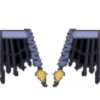
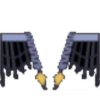
Boss doors added

diff --git a/ui/game_view.py b/ui/game_view.py
@@ -24,6 +24,10 @@ class GameView(QWidget):
         self.doors_down = QPixmap("resources/images/backgrounds/doors_down.png")
         self.doors_right = QPixmap("resources/images/backgrounds/doors_right.png")
         self.doors_left = QPixmap("resources/images/backgrounds/doors_left.png")
+        self.doors_up_boss = QPixmap("resources/images/backgrounds/doors_up_boss.png")
+        self.doors_down_boss = QPixmap("resources/images/backgrounds/doors_down_boss.png")
+        self.doors_right_boss = QPixmap("resources/images/backgrounds/doors_right_boss.png")
+        self.doors_left_boss = QPixmap("resources/images/backgrounds/doors_left_boss.png")
 
         self.player = Player()
 
@@ -299,7 +303,7 @@ class GameView(QWidget):
         if neighbors['up']:
             match self.level.get_room(cx, cy - 1).room_type:
                 case "boss":
-                    painter.setBrush(self.doors_up)
+                    painter.setBrush(self.doors_up_boss)
                 case "treasure":
                     painter.setBrush(self.doors_up)
                 case "next_level":
@@ -311,7 +315,7 @@ class GameView(QWidget):
         if neighbors['down']:
             match self.level.get_room(cx, cy + 1).room_type:
                 case "boss":
-                    painter.setBrush(self.doors_down)
+                    painter.setBrush(self.doors_down_boss)
                 case "treasure":
                     painter.setBrush(self.doors_down)
                 case "next_level":
@@ -323,7 +327,7 @@ class GameView(QWidget):
         if neighbors['left']:
             match self.level.get_room(cx - 1, cy).room_type:
                 case "boss":
-                    painter.setBrush(self.doors_left)
+                    painter.setBrush(self.doors_left_boss)
                 case "treasure":
                     painter.setBrush(self.doors_left)
                 case "next_level":
@@ -335,7 +339,7 @@ class GameView(QWidget):
         if neighbors['right']:
             match self.level.get_room(cx + 1, cy).room_type:
                 case "boss":
-                    painter.setBrush(self.doors_right)
+                    painter.setBrush(self.doors_right_boss)
                 case "treasure":
                     painter.setBrush(self.doors_right)
                 case "next_level":
